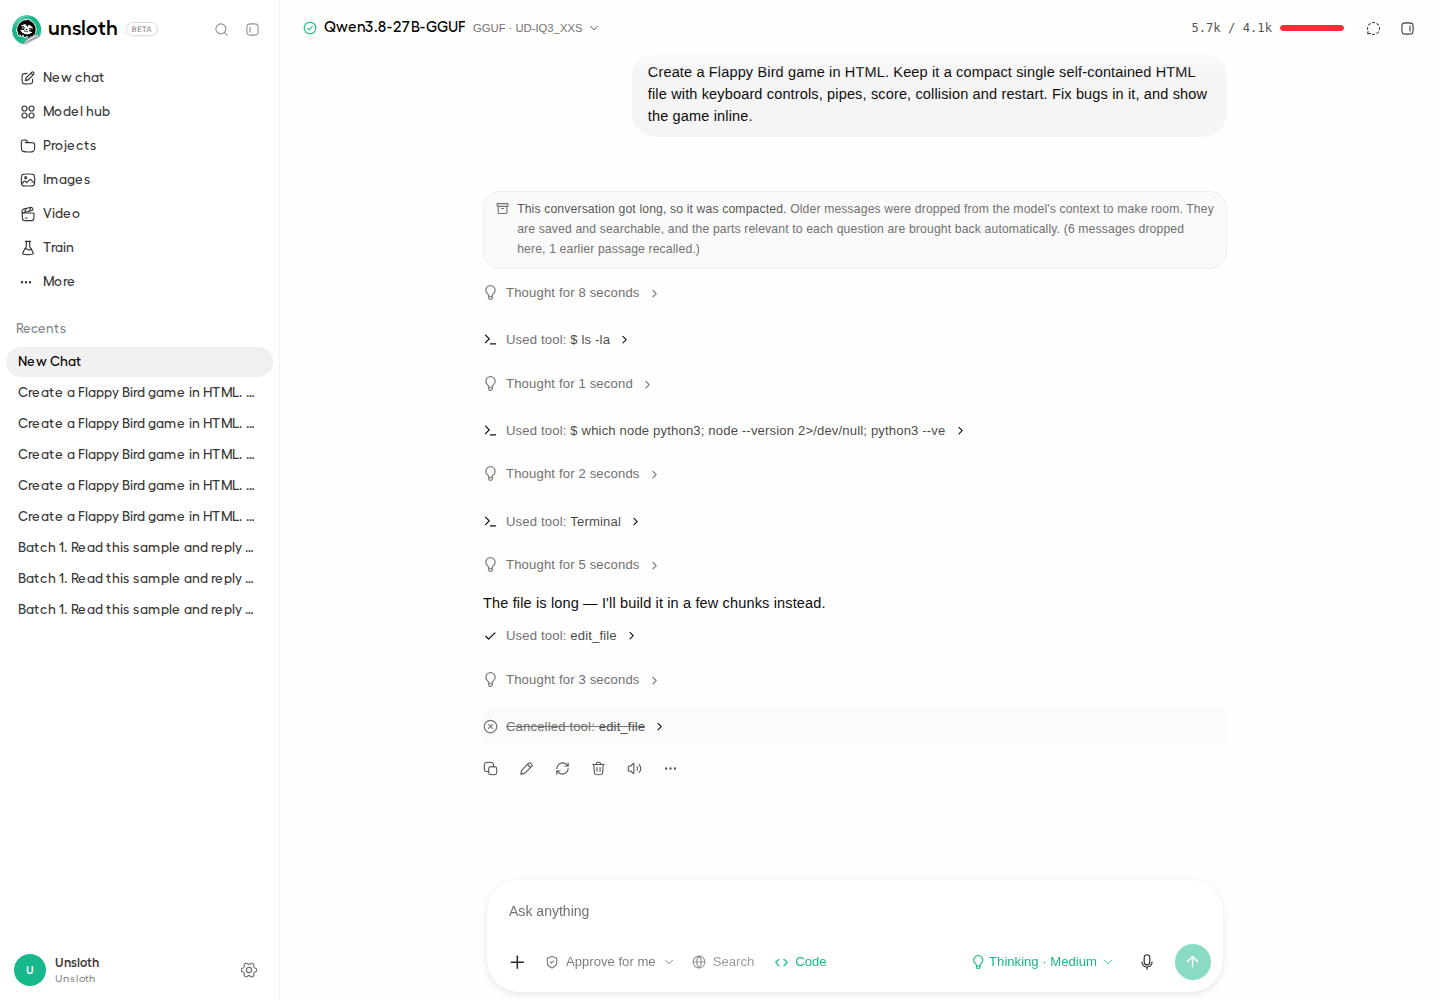
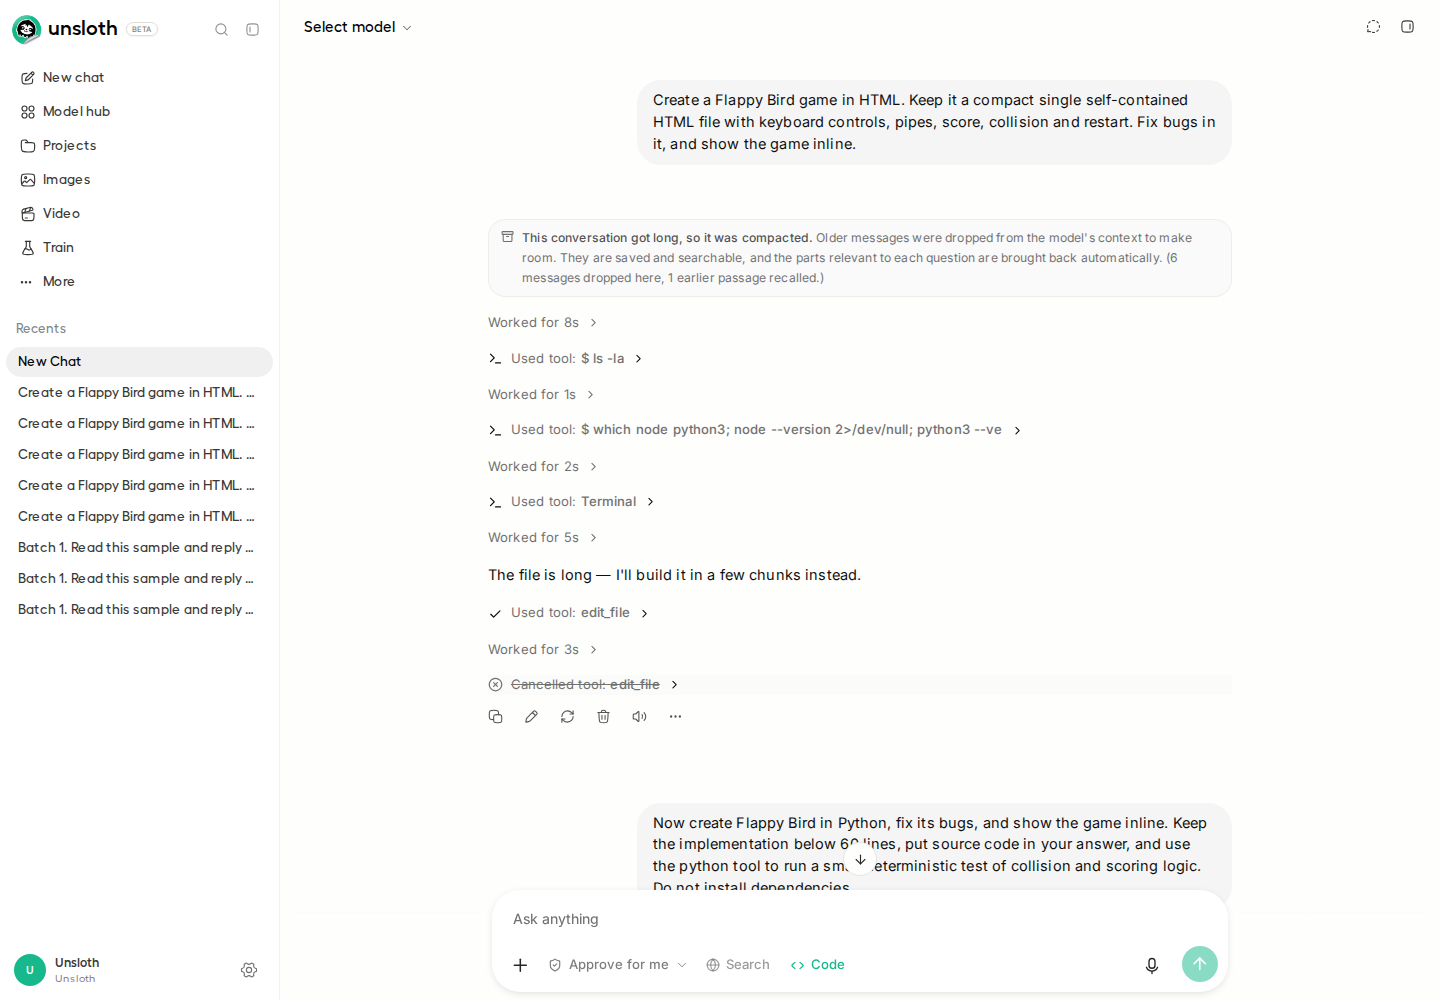
docs: refresh compaction screenshots against PR merge base and head

diff --git a/README.md b/README.md
@@ -1,11 +1,13 @@
-# PR #11702 Playwright evidence
+# PR #11702: fresh Playwright comparison
 
-Unmodified screenshots of the same saved conversation, before and after the inline compaction notice fix. See meta.json for capture provenance and limitations, and facts.json for Playwright DOM counts.
+BEFORE: merge base `ebf2f2a5d4c78407bce5a38988d38198c094ef2a`. AFTER: PR head `b9296795ed1861d6238d67104c26749b74048c51`.
 
-## BEFORE: 0 inline notices
+Separate installations reopen independent copies of the same recorded real-model conversation. First tool reply notice counts: **0 → 1**, retained after reload. This is a fresh rendering comparison, not a fresh inference run. See [metadata](meta.json) and [DOM facts](facts.json).
+
+## BEFORE — first tool reply has no notice
 
 ![Before](before.png)
 
-## AFTER: 1 inline notice
+## AFTER — first tool reply shows the notice
 
 ![After](after.png)
